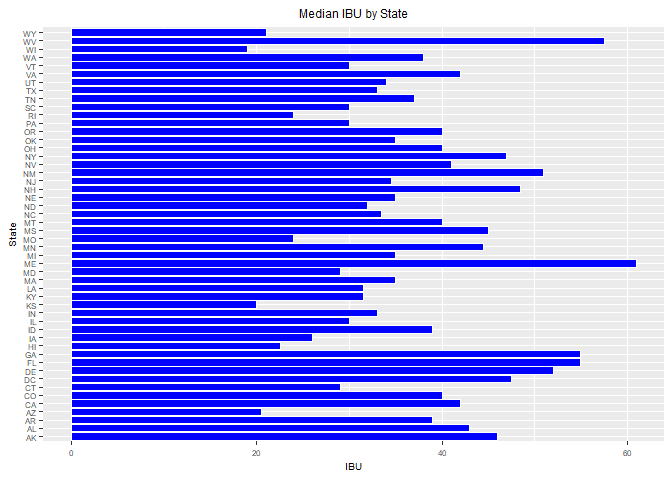
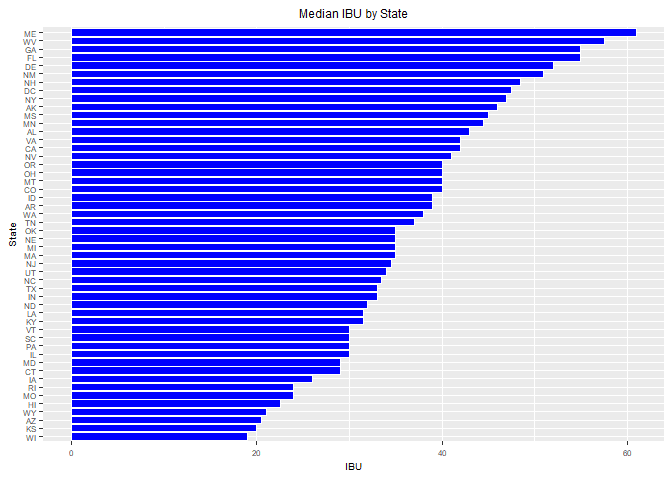
added correlation information

Changed region(s): [[0.375, 0.0625, 0.9688, 0.9375], [0.0312, 0.0625, 0.0625, 0.9375]]

diff --git a/CaseStudy01_Paul_Madding.html b/CaseStudy01_Paul_Madding.html
@@ -359,23 +359,25 @@ medIBUbar$State &lt;- rownames(medIBUbar)
 
 #sort ABV in desending order
 medABVbar&lt;- medABVbar[order(medABV), ]
+#sort IBU in desending order
+medIBUbar&lt;- medIBUbar[order(medIBU), ]
 
 #plot a bar chart for ABV
-ggplot(medABVbar, aes(x=State, y=medABV)) +
+ggplot(na.omit(medABVbar), aes(x=reorder(medABVbar$State, medABVbar$medABV), y=medABVbar$medABV)) +
   geom_bar(stat=&quot;identity&quot;, color=&quot;white&quot;, fill=&quot;blue&quot;) +
   ylab(&quot;Alcohol Content&quot;) + xlab(&quot;State&quot;) +
   ggtitle(&quot;Median ABV by State&quot;) +
   coord_flip() + theme(plot.title = element_text(hjust=0.5), text = element_text(size=7.5))</code></pre>
[2 lines of base64/hex data omitted]
 <pre class="r"><code>#Remove SD from the list due to no IBU data
 medIBUbar &lt;- medIBUbar[-grep(&quot;SD&quot;, medIBUbar$State),]
 #plot a bar chart for IBU
-ggplot(medIBUbar, aes(x=State, y=medIBU)) +
+ggplot((medIBUbar), aes(x=reorder(medIBUbar$State, medIBUbar$medIBU), y=medIBUbar$medIBU)) +
   geom_bar(stat=&quot;identity&quot;, color=&quot;white&quot;, fill=&quot;blue&quot;) +
   ylab(&quot;IBU&quot;) + xlab(&quot;State&quot;) +
   ggtitle(&quot;Median IBU by State&quot;) +
   coord_flip() + theme(plot.title = element_text(hjust=0.5), text = element_text(size=7.5))</code></pre>
[2 lines of base64/hex data omitted]
 <ol start="5" style="list-style-type: decimal">
 <li>Which state has the maximum alcoholic (ABV) beer? Which state has the most bitter (IBU) beer?</li>
 </ol>
@@ -394,8 +396,24 @@ ggplot(medIBUbar, aes(x=State, y=medIBU)) +
 <ol start="7" style="list-style-type: decimal">
 <li>Is there an apparent relationship between the bitterness of the beer and its alcoholic content? Draw a scatter plot.</li>
 </ol>
-<pre class="r"><code>ggplot(brew_beer, aes(x = IBU, y = ABV)) + geom_point(na.rm=TRUE)+geom_smooth(method=lm,se=FALSE, na.rm=TRUE)</code></pre>
+<pre class="r"><code>#ggplot to check for correlation
+ggplot(brew_beer, aes(x = IBU, y = ABV)) + geom_point(na.rm=TRUE)+geom_smooth(method=lm,se=FALSE, na.rm=TRUE)</code></pre>
[1 lines of base64/hex data omitted]
+<p>The scatterplot looks to show a signaficly positive corrlation.</p>
+<p>Looking at the numbers below we can see a very signatific correlation between tha alochol content (ABV) and the bitterness (IBU) of a beer. This is observational data so even with the corrlation we can not infer anything to the larger population in reguards to ABV and IBU.</p>
+<pre class="r"><code># Pearson to check for correlation 
+cor.test(brew_beer$ABV, brew_beer$IBU, method = &quot;pearson&quot;)</code></pre>
+<pre><code>## 
+##  Pearson's product-moment correlation
+## 
+## data:  brew_beer$ABV and brew_beer$IBU
+## t = 33.863, df = 1403, p-value &lt; 2.2e-16
+## alternative hypothesis: true correlation is not equal to 0
+## 95 percent confidence interval:
+##  0.6407982 0.6984238
+## sample estimates:
+##       cor 
+## 0.6706215</code></pre>
 </div>
 <div id="conclusion" class="section level2">
 <h2>Conclusion</h2>

diff --git a/CaseStudy01_Paul_Madding.md b/CaseStudy01_Paul_Madding.md
@@ -261,9 +261,11 @@ medIBUbar$State <- rownames(medIBUbar)
 
 #sort ABV in desending order
 medABVbar<- medABVbar[order(medABV), ]
+#sort IBU in desending order
+medIBUbar<- medIBUbar[order(medIBU), ]
 
 #plot a bar chart for ABV
-ggplot(medABVbar, aes(x=State, y=medABV)) +
+ggplot(na.omit(medABVbar), aes(x=reorder(medABVbar$State, medABVbar$medABV), y=medABVbar$medABV)) +
   geom_bar(stat="identity", color="white", fill="blue") +
   ylab("Alcohol Content") + xlab("State") +
   ggtitle("Median ABV by State") +
@@ -276,7 +278,7 @@ ggplot(medABVbar, aes(x=State, y=medABV)) +
 #Remove SD from the list due to no IBU data
 medIBUbar <- medIBUbar[-grep("SD", medIBUbar$State),]
 #plot a bar chart for IBU
-ggplot(medIBUbar, aes(x=State, y=medIBU)) +
+ggplot((medIBUbar), aes(x=reorder(medIBUbar$State, medIBUbar$medIBU), y=medIBUbar$medIBU)) +
   geom_bar(stat="identity", color="white", fill="blue") +
   ylab("IBU") + xlab("State") +
   ggtitle("Median IBU by State") +
@@ -319,10 +321,34 @@ summary(brew_beer$ABV)
    7. Is there an apparent relationship between the bitterness of the beer and its alcoholic content? Draw a scatter plot.
 
 ```r
+#ggplot to check for correlation
 ggplot(brew_beer, aes(x = IBU, y = ABV)) + geom_point(na.rm=TRUE)+geom_smooth(method=lm,se=FALSE, na.rm=TRUE)
 ```
 
 ![](CaseStudy01_Paul_Madding_files/figure-html/scatter plot-1.png)<!-- -->
+
+The scatterplot looks to show a signaficly positive corrlation.
+
+Looking at the numbers below we can see a very signatific correlation between tha alochol content (ABV) and the bitterness (IBU) of a beer. This is observational data so even with the corrlation we can not infer anything to the larger population in reguards to ABV and IBU.
+
+```r
+# Pearson to check for correlation 
+cor.test(brew_beer$ABV, brew_beer$IBU, method = "pearson")
+```
+
+```
+## 
+## 	Pearson's product-moment correlation
+## 
+## data:  brew_beer$ABV and brew_beer$IBU
+## t = 33.863, df = 1403, p-value < 2.2e-16
+## alternative hypothesis: true correlation is not equal to 0
+## 95 percent confidence interval:
+##  0.6407982 0.6984238
+## sample estimates:
+##       cor 
+## 0.6706215
+```
 
 ## Conclusion
 
